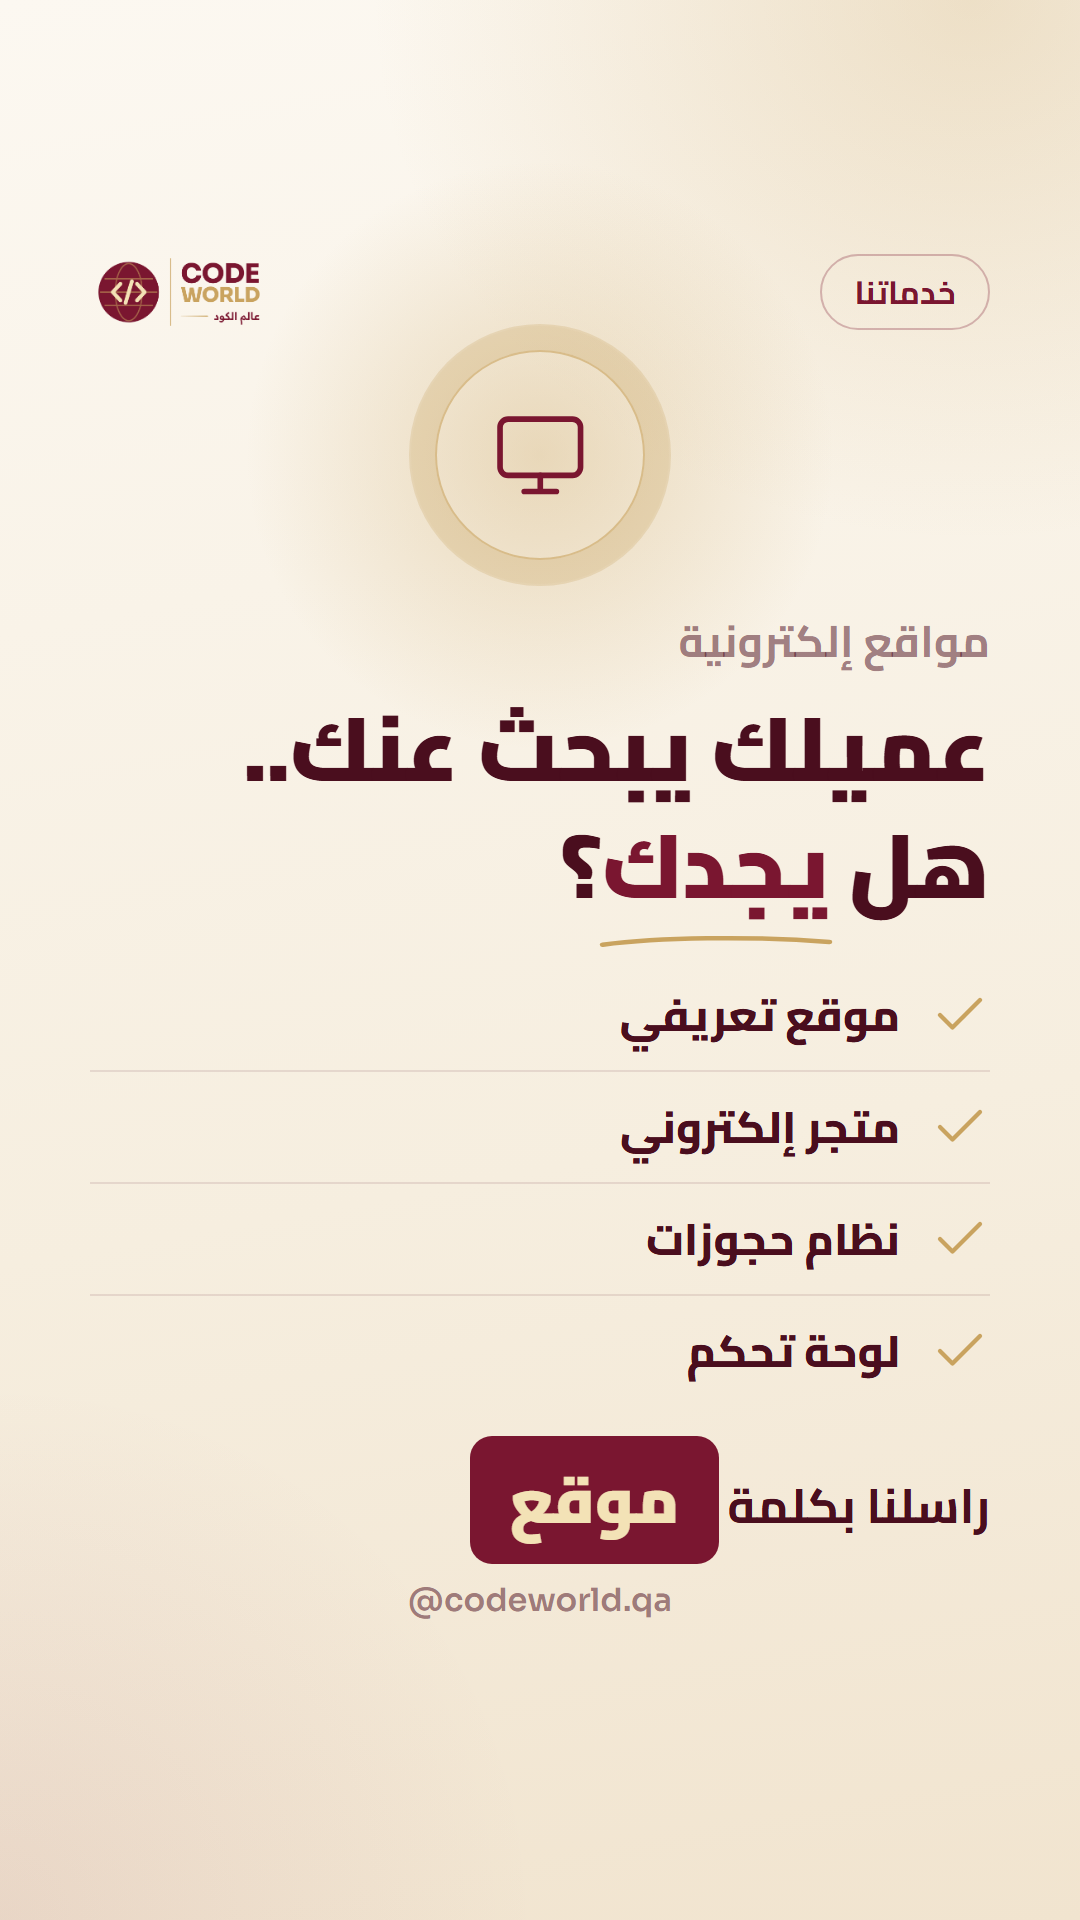
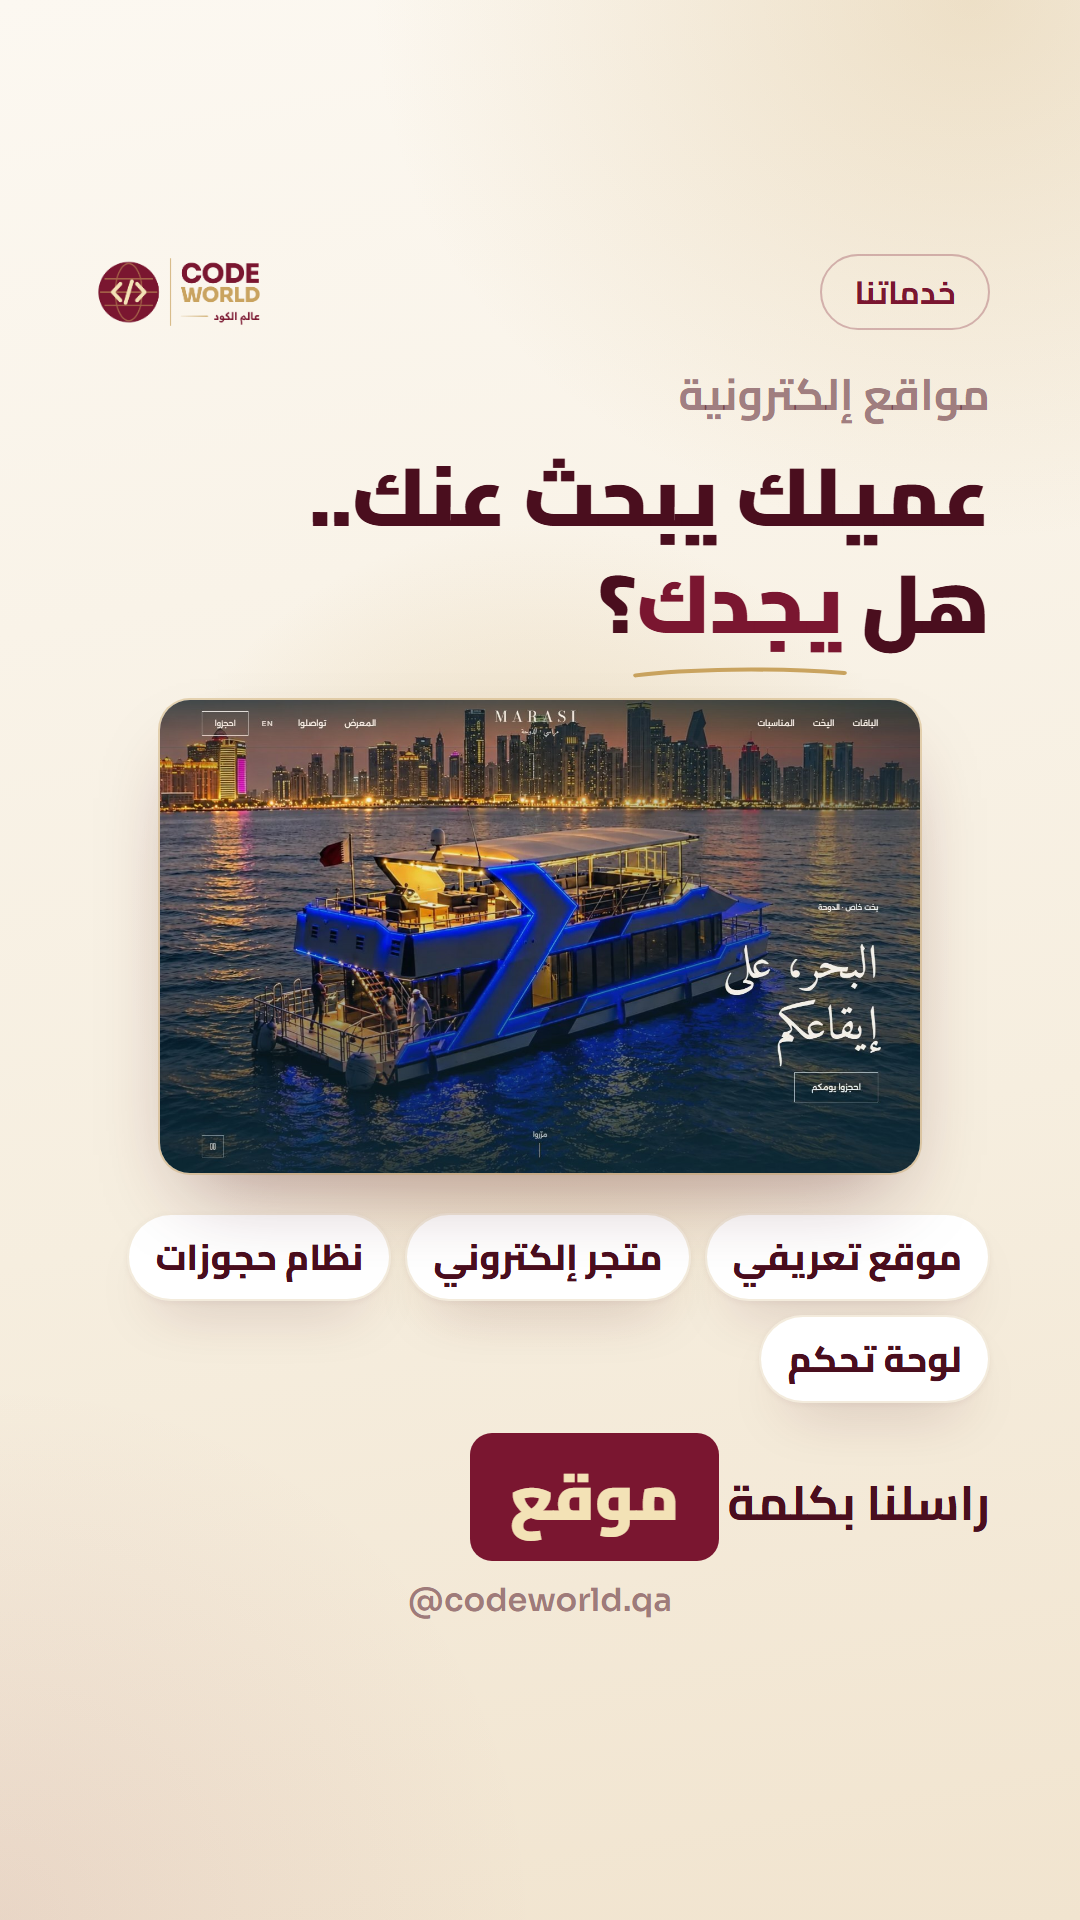
Stories: real work in service stories, 9 more projects in the work highlight

diff --git a/brand/instagram/code-world-stories/stories.html b/brand/instagram/code-world-stories/stories.html
@@ -65,6 +65,8 @@
   body.light .shot { box-shadow: 0 0 0 2px rgba(201,163,95,.4), 0 40px 80px -30px rgba(74,14,30,.4); }
   body.light .phone { box-shadow: 0 0 0 2px rgba(201,163,95,.5), 0 40px 80px -30px rgba(74,14,30,.45); }
   body.light .glow { background: radial-gradient(circle, rgba(201,163,95,.35), transparent 65%); }
+  .chips { display: flex; flex-wrap: wrap; gap: 14px; margin-top: 40px; }
+  .chips span { font: 800 36px Cairo; padding: 10px 28px; border-radius: 999px; background: var(--card); box-shadow: var(--cardsh); }
 /* ds-allow-hardcode:end */
 </style>
 </head>
@@ -118,14 +120,14 @@ const I = {
 const ic = (k) => `<svg viewBox="0 0 24 24">${I[k]}</svg>`;
 /* alternate maroon / cream inside every highlight, like the post grid */
 const DARK = ["new-1", "new-3", "services-0", "services-2", "services-4", "services-6", "services-8",
-  "work-0", "work-2", "work-4", "how-1", "contact-1"];
+  "work-0", "work-2", "work-4", "work-6", "work-8", "work-10", "work-12", "work-14", "how-1", "contact-1"];
 const HC_DARK = ["services", "how"];
 let LOGO = "../code-world-logo-dark.png", GLOBE = "../cw-globe-ondark.svg";
 const WA = `<span class="cta">واتساب <span style="font-family:Sora;direction:ltr">+974 6648 8228</span></span>`;
 
 /* the 8 services, same order as the site */
 const SV = [
-  ["web", "monitor", "مواقع إلكترونية", "عميلك يبحث عنك.. هل <span class='hl'>يجدك</span>؟", ["موقع تعريفي", "متجر إلكتروني", "نظام حجوزات", "لوحة تحكم"], "موقع"],
+  ["web", "monitor", "مواقع إلكترونية", "عميلك يبحث عنك..<br>هل <span class='hl'>يجدك</span>؟", ["موقع تعريفي", "متجر إلكتروني", "نظام حجوزات", "لوحة تحكم"], "موقع"],
   ["app", "mobile", "تطبيقات الجوال", "تطبيقك في <span class='hl'>جيب</span> عميلك", ["آيفون وأندرويد", "تطبيقات ويب", "إشعارات", "لوحة إدارة"], "تطبيق"],
   ["sys", "code", "برامج وأنظمة", "برنامج مفصّل على <span class='hl'>شغلك</span>", ["ERP ومحاسبة", "نقاط بيع", "مخزون", "موارد بشرية"], "نظام"],
   ["video", "play", "فيديو وموشن", "فكرتك في <span class='hl'>30 ثانية</span>", ["موشن جرافيك", "ريلز إعلانية", "فيديو تعريفي", "مونتاج"], "فيديو"],
@@ -142,6 +144,15 @@ const WK = [
   ["radda", "ردّة", "رحلة رقمية غامرة في تراث الغوص على اللؤلؤ.", "../diving.png"],
   ["darkfit", "DarkFit", "تمارين وتغذية وحاسبات صحية في تطبيق واحد.", "../darkfit.png", true],
   ["nafahat", "نَفَحات", "المصحف وأوقات الصلاة والقبلة في صحبة يومية.", "../nafahat.png", true],
+  ["ibn-jazry", "دار ابن الجزري", "منصة لتحفيظ القرآن الكريم وتعليم أحكام التجويد.", "../ibn-jazry-new.png"],
+  ["nada", "Nada Makeup", "موقع أنيق لخبيرة تجميل العرائس مع نظام حجز.", "../nada-new.png"],
+  ["dopamin", "Dopamin", "هوية دافئة وموقع لعلامة حلويات صحية.", "../dopamin.png"],
+  ["south", "مطابخ الجنوب", "نظام نقاط بيع وفواتير ومتابعة مبيعات للمطاعم.", "../elwakra-pos.jpg"],
+  ["erp", "نظام ERP", "المبيعات والمخزون والمحاسبة والرواتب في نظام واحد.", "../erp-stock.jpg"],
+  ["edu", "لوحة متابعة مدرسية", "الدروس والتقييمات وأداء المعلمين والطلاب في مكان واحد.", "../edu-overview.jpg"],
+  ["slaty", "صلاتي قرة عيني", "رحلة تفاعلية تعلّم الأطفال الوضوء والصلاة.", "../slaty.png", true],
+  ["saifx", "saifx", "مساحة منظمة لتعلّم الفيزياء لطلاب الثانوية.", "../saifx.png"],
+  ["darb", "دَرْب", "منصة ألعاب وأنشطة تعليمية تفاعلية لكل المواد.", "../games-new.png"],
 ];
 
 const story = (pill, body) => `<div class="bar"><img class="mini" src="${LOGO}"><span class="pill">${pill}</span></div>
@@ -199,7 +210,11 @@ const ST = {
     <p class="p" style="margin-top:30px">اكتبها هنا، ونرد عليك<br>بأقرب طريق لتنفيذها.</p>
     <div class="drop"></div>`),
 };
-SV.forEach(([key, icon, name, hook, feats, kw], i) => ST["services-" + (i + 1)] = () => story("خدماتنا", `
+/* real work shown inside a service story; services without samples keep the icon ring */
+const SAMPLE = { web: "../marasi.png", app: ["../darkfit.png", "../nafahat.png"], sys: "../erp-stock.jpg", brand: "../dopamin.png" };
+SV.forEach(([key, icon, name, hook, feats, kw], i) => ST["services-" + (i + 1)] = () => {
+  const sm = SAMPLE[key];
+  if (!sm) return story("خدماتنا", `
     <div style="position:relative;align-self:center;margin-bottom:40px">
       <div class="glow" style="width:640px;height:640px"></div>
       <div class="ring" style="width:210px;height:210px">${ic(icon)}</div>
@@ -207,10 +222,22 @@ SV.forEach(([key, icon, name, hook, feats, kw], i) => ST["services-" + (i + 1)] 
     <div class="label">${name}</div>
     <h2 style="font-size:90px">${hook}</h2>
     <div class="rows" style="margin-top:36px">${feats.map((f) => `<div class="row" style="font-size:44px;padding:14px 0">${ic("check")}${f}</div>`).join("")}</div>
-    <p class="p" style="margin-top:30px;color:var(--ink)">راسلنا بكلمة<span class="kw">${kw}</span></p>`));
+    <p class="p" style="margin-top:30px;color:var(--ink)">راسلنا بكلمة<span class="kw">${kw}</span></p>`);
+  const pic = Array.isArray(sm)
+    ? `<div style="display:flex;gap:30px;justify-content:center">${sm.map((x) => `<div class="phone" style="width:230px;padding:10px;border-radius:40px"><img src="${x}" style="border-radius:32px"></div>`).join("")}</div>`
+    : `<img class="shot" src="${sm}" style="width:760px;margin:0 auto">`;
+  return story("خدماتنا", `
+    <div class="label">${name}</div>
+    <h2 style="font-size:82px">${hook}</h2>
+    <div style="position:relative;margin-top:44px">
+      <div class="glow" style="width:900px;height:900px"></div>${pic}
+    </div>
+    <div class="chips">${feats.map((f) => `<span>${f}</span>`).join("")}</div>
+    <p class="p" style="margin-top:30px;color:var(--ink)">راسلنا بكلمة<span class="kw">${kw}</span></p>`);
+});
 WK.forEach(([key, name, desc, img, phone], i) => ST["work-" + (i + 1)] = () => story("أعمالنا", `<div style="text-align:center">
     <div class="label">من أعمالنا</div>
-    <h2 style="font-family:${/[a-z]/i.test(name) ? "Sora;font-weight:800;font-size:96px" : "Cairo"}"><span class="hl">${name}</span></h2>
+    <h2 style="font-family:${/[a-z]/i.test(name) ? "Sora;font-weight:800;font-size:96px" : "Cairo"};${name.length > 12 ? "font-size:84px" : ""}"><span class="hl">${name}</span></h2>
     <div style="position:relative;margin:${phone ? 60 : 90}px auto 0;width:max-content">
       <div class="glow" style="width:1000px;height:1000px"></div>
       ${phone ? `<div class="phone" style="width:340px"><img src="${img}"></div>` : `<img class="shot" src="${img}" style="width:900px">`}

diff --git a/brand/instagram/code-world-stories/README.md b/brand/instagram/code-world-stories/README.md
@@ -8,7 +8,7 @@
 |---|---|---|
 | من نحن | `highlights/new.png` | new-1، new-2، new-3 |
 | خدماتنا | `highlights/services.png` | services-0، ثم services-1 إلى services-8 |
-| أعمالنا | `highlights/work.png` | work-0، ثم work-1 إلى work-5 |
+| أعمالنا | `highlights/work.png` | work-0، ثم work-1 إلى work-14 |
 | طريقتنا | `highlights/how.png` | how-1 |
 | تواصل | `highlights/contact.png` | contact-1، contact-2 |
 
